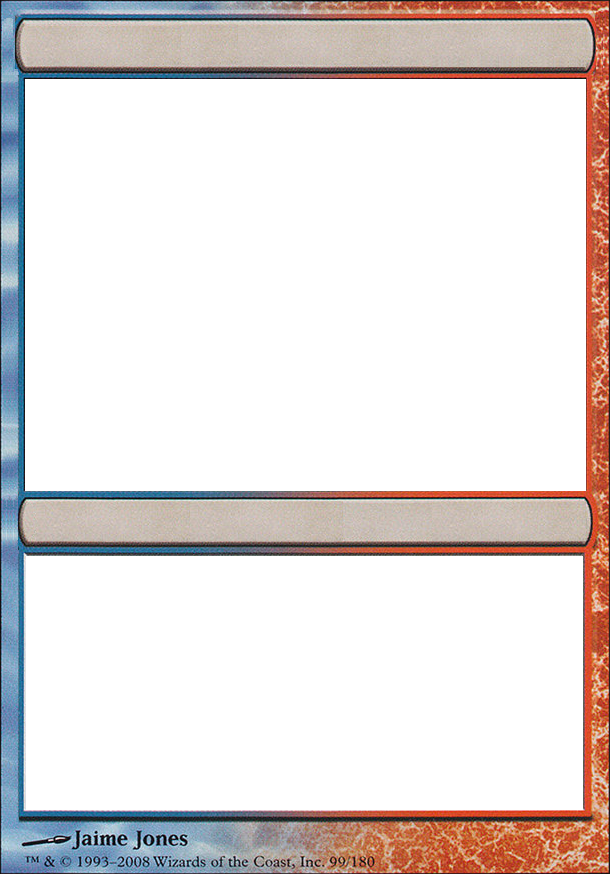
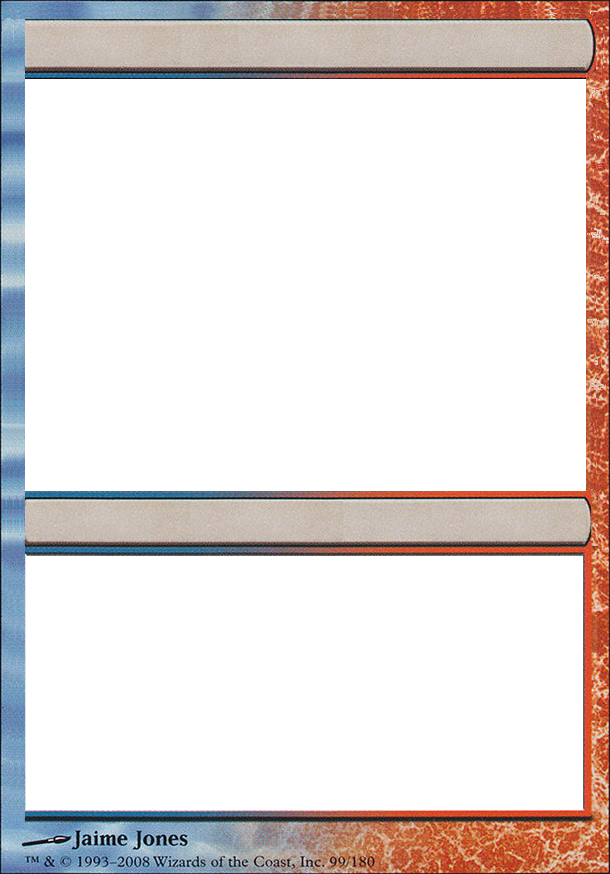
Additional card borders.

Changed region(s): [[0.0, 0.0, 0.9656, 0.9577], [0.9344, 0.0618, 0.9967, 0.6178]]

diff --git a/src/mtg-card.css b/src/mtg-card.css
@@ -85,15 +85,15 @@ body* > {
 }
 
 .card-background-ub {
-    background: linear-gradient(1deg, rgba(17, 17, 17, 0.3), rgba(64, 10, 227, 0.908)), url(https://image.ibb.co/jKByZn/tile_bg_1.jpg);
+  background-image: url(./card-backgrounds/ub.png);
 }
 
 .card-background-br {
-    background: linear-gradient(1deg, rgba(230, 9, 9, 0.701), rgba(17, 17, 17, 0.3)), url(https://image.ibb.co/jKByZn/tile_bg_1.jpg);
+  background-image: url(./card-backgrounds/br.png);
 }
 
 .card-background-rg {
-    background: linear-gradient(1deg, rgba(230, 9, 9, 0.701), rgba(27, 161, 27, 0.852)), url(https://image.ibb.co/jKByZn/tile_bg_1.jpg);
+  background-image: url(./card-backgrounds/rg.png);
 }
 
 .card-background-wg {
@@ -153,9 +153,6 @@ body* > {
     margin-bottom: 7px;
 }
 
-.frame-text-box {
-}
-
 /* Box shadows for the card's header, type line, art, and text box. /*
 /* Single color backgrounds. */
 .frame-header-g,
@@ -169,7 +166,7 @@ body* > {
 .frame-art-u,
 .frame-type-line-u,
 .frame-text-box-u {
-  box-shadow: 0 0 0 2px #7579e196, 0 0 0 2px #010fb2f0, -2px 3px 2px 3px #020202;
+  box-shadow: 0 0 0 2px #3b40da83, 0 0 0 2px #0110b2b4, -2px 3px 2px 3px #020202;
 }
 
 .frame-header-w,
@@ -205,21 +202,21 @@ body* > {
 .frame-art-ub,
 .frame-type-line-ub,
 .frame-text-box-ub {
-  box-shadow: 0 0 0 2px #999999, 0 0 0 5px #151414, -3px 3px 2px 5px #2f2e2e;
+  box-shadow: 0 0 0 2px #3b40da2f, 0 0 0 2px #010c7b39, -2px 3px 2px 3px #020202;
 }
 
 .frame-header-br,
 .frame-art-br,
 .frame-type-line-br,
 .frame-text-box-br {
-  box-shadow: 0 0 0 2px #999999, 0 0 0 5px #151414, -3px 3px 2px 5px #2f2e2e;
+  box-shadow: 0 0 0 3px #3030302d, 0 0 0 2px #b3b3b334, -2px 3px 2px 3px #020202;
 }
 
 .frame-header-rg,
 .frame-art-rg,
 .frame-type-line-rg,
 .frame-text-box-rg {
-  box-shadow: 0 0 0 2px #999999, 0 0 0 5px #151414, -3px 3px 2px 5px #2f2e2e;
+  box-shadow: 0 0 0 3px #3030302d, 0 0 0 2px #b3b3b334, -2px 3px 2px 3px #020202;
 }
 
 .frame-header-wg,
@@ -240,28 +237,28 @@ body* > {
 .frame-art-ur,
 .frame-type-line-ur,
 .frame-text-box-ur {
-  box-shadow: 0 0 0 2px #999999, 0 0 0 5px #151414, -3px 3px 2px 5px #2f2e2e;
+  box-shadow: 0 0 0 2px #7579e148, 0 0 0 2px #130403f0, -2px 3px 2px 3px #020202;
 }
 
 .frame-header-bg,
 .frame-art-bg,
 .frame-type-line-bg,
 .frame-text-box-bg {
-  box-shadow: 0 0 0 2px #999999, 0 0 0 5px #151414, -3px 3px 2px 5px #2f2e2e;
+  box-shadow: 0 0 0 3px #3030302d, 0 0 0 2px #b3b3b334, -2px 3px 2px 3px #020202;
 }
 
 .frame-header-rw,
 .frame-art-rw,
 .frame-type-line-rw,
 .frame-text-box-rw {
-  box-shadow: 0 0 0 2px #999999, 0 0 0 5px #151414, -3px 3px 2px 5px #2f2e2e;
+  box-shadow: 0 0 0 3px #3030302d, 0 0 0 2px #b3b3b334, -2px 3px 2px 3px #020202;
 }
 
 .frame-header-gu,
 .frame-art-gu,
 .frame-type-line-gu,
 .frame-text-box-gu {
-  box-shadow: 0 0 0 2px #999999, 0 0 0 5px #151414, -3px 3px 2px 5px #2f2e2e;
+  box-shadow: 0 0 0 3px #3030302d, 0 0 0 2px #b3b3b334, -2px 3px 2px 3px #020202;
 }
 
 /* Colorless background. */
@@ -277,7 +274,7 @@ body* > {
 .frame-art-mc,
 .frame-type-line-mc,
 .frame-text-box-mc {
-  box-shadow: 0 0 0 2px #533d0b96, 0 0 0 2px #ad7f15f0, -2px 3px 2px 3px #020202;
+  box-shadow: 0 0 0 2px #533d0b96, 0 0 0 2px #ad7f157a, -2px 3px 2px 3px #020202;
 }
 
 /*
@@ -366,20 +363,19 @@ body* > {
 }
 
 .frame-ub {
-  background: 
-  linear-gradient(0deg, rgba(201, 216, 201, .3), rgba(201, 216, 209, .3)), 
-  url(https://image.ibb.co/jKByZn/tile_bg_1.jpg);
+  background: linear-gradient(90deg, rgba(18, 139, 238, 0.286), rgba(110, 108, 108, 0.4)), 
+  url(https://image.ibb.co/jKByZn/tile_bg_1.jpg)
 }
 
 .frame-br {
   background: 
-  linear-gradient(0deg, rgba(201, 216, 201, .3), rgba(201, 216, 209, .3)), 
+  linear-gradient(90deg, rgba(20, 20, 20, 0.199),  rgba(208, 37, 11, 0.226)), 
   url(https://image.ibb.co/jKByZn/tile_bg_1.jpg);
 }
 
 .frame-rg {
   background: 
-  linear-gradient(0deg, rgba(201, 216, 201, .3), rgba(201, 216, 209, .3)), 
+  linear-gradient(90deg, rgba(208, 37, 11, 0.226),  rgba(17, 114, 61, 0.226)), 
   url(https://image.ibb.co/jKByZn/tile_bg_1.jpg);
 }
 
@@ -397,7 +393,7 @@ linear-gradient(0deg, rgb(241 243 241 / 30%), #e7e8dc),
 
 .frame-ur {
   background: 
-  linear-gradient(0deg, rgba(201, 216, 201, .3), rgba(201, 216, 209, .3)), 
+  linear-gradient(90deg, rgba(22, 178, 240, 0.3), rgba(187, 51, 2, 0.5)), 
   url(https://image.ibb.co/jKByZn/tile_bg_1.jpg);
 }
 
